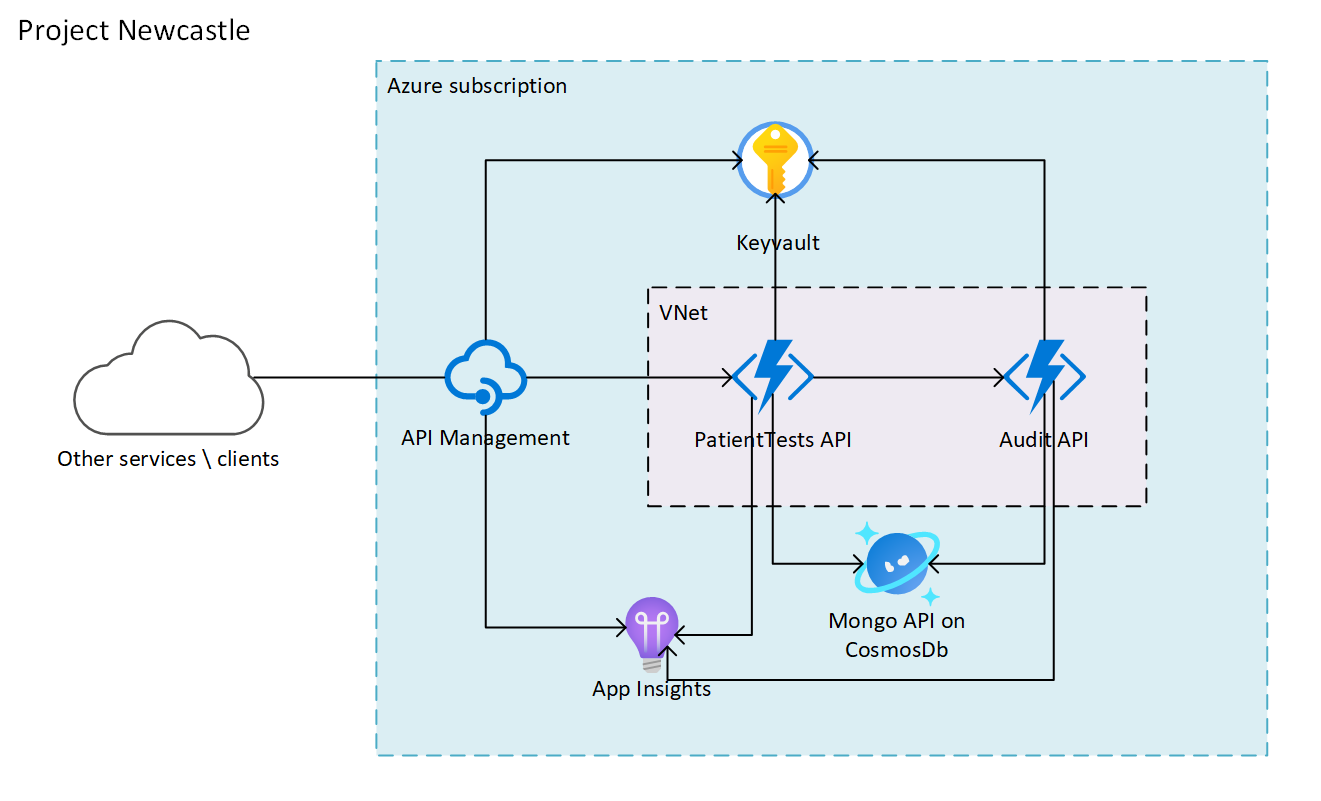
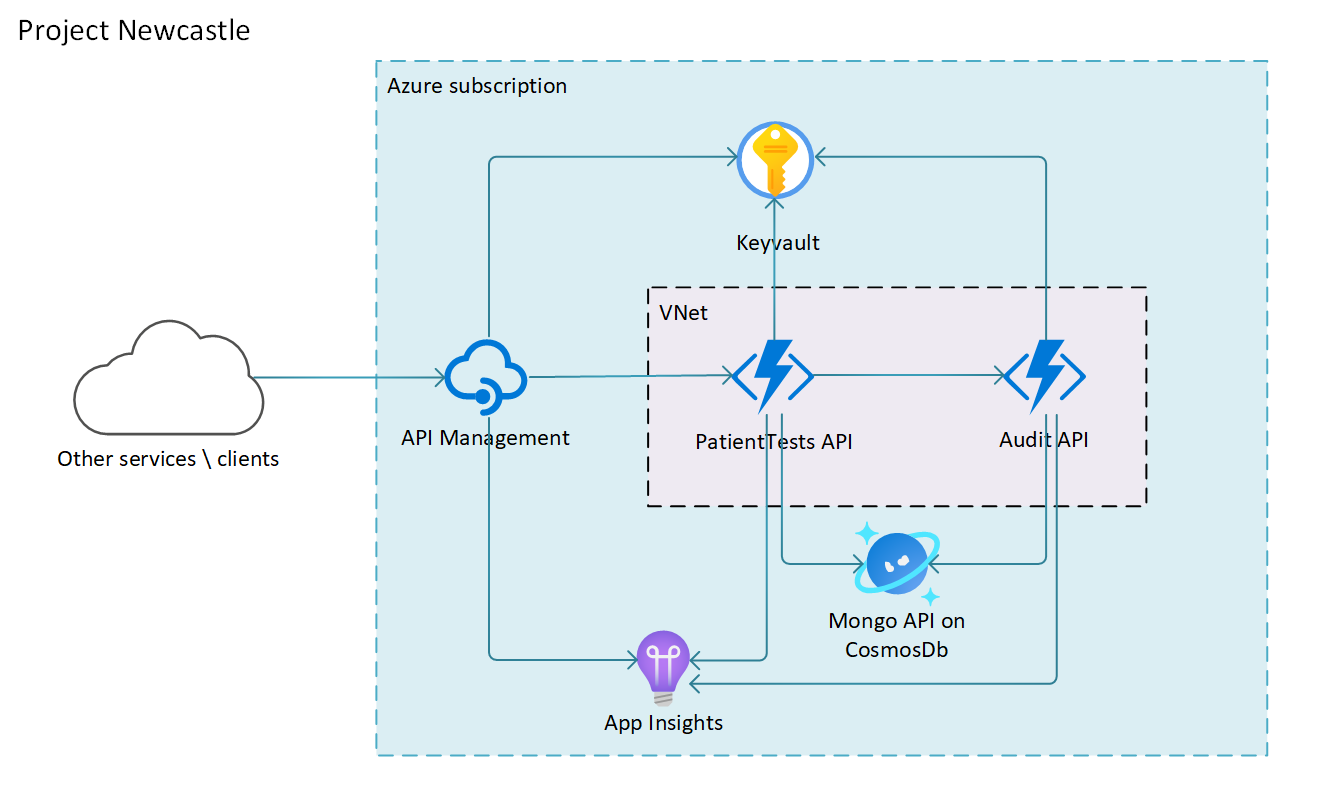
Updated Readme and archtecture diagram.

diff --git a/README.md b/README.md
@@ -1,5 +1,5 @@
 # Project Newcastle
-This repo contains a sample showcasing a key part of a recent customer engagement. We've distilled it down to the main technical lessons learned to serve as a scaffold for future work. The majority of business logic and detail related to data models have been removed to simplify the code.  
+This repo contains a sample showcasing a key part of a recent customer engagement. We've distilled it down to the main technical lessons learned to serve as a scaffold for future work. The majority of business logic and detail related to data models have been removed to simplify the code; this extends to security and infrastructure elements.
 
 ## Scenario
 The organisation needs to digitally store the results of patient medical tests. Other internal and third-party systems will need to interface with this data via an API that allows reading and writing of the data. These interactions need to be recorded in an audit register. Access to the API needs to be managed by a system that allows for easy integration with different authentication mechanisms. APIs should not be publically accessible outside of a single managed endpoint. All code and infrastructure deployment should be automated.
